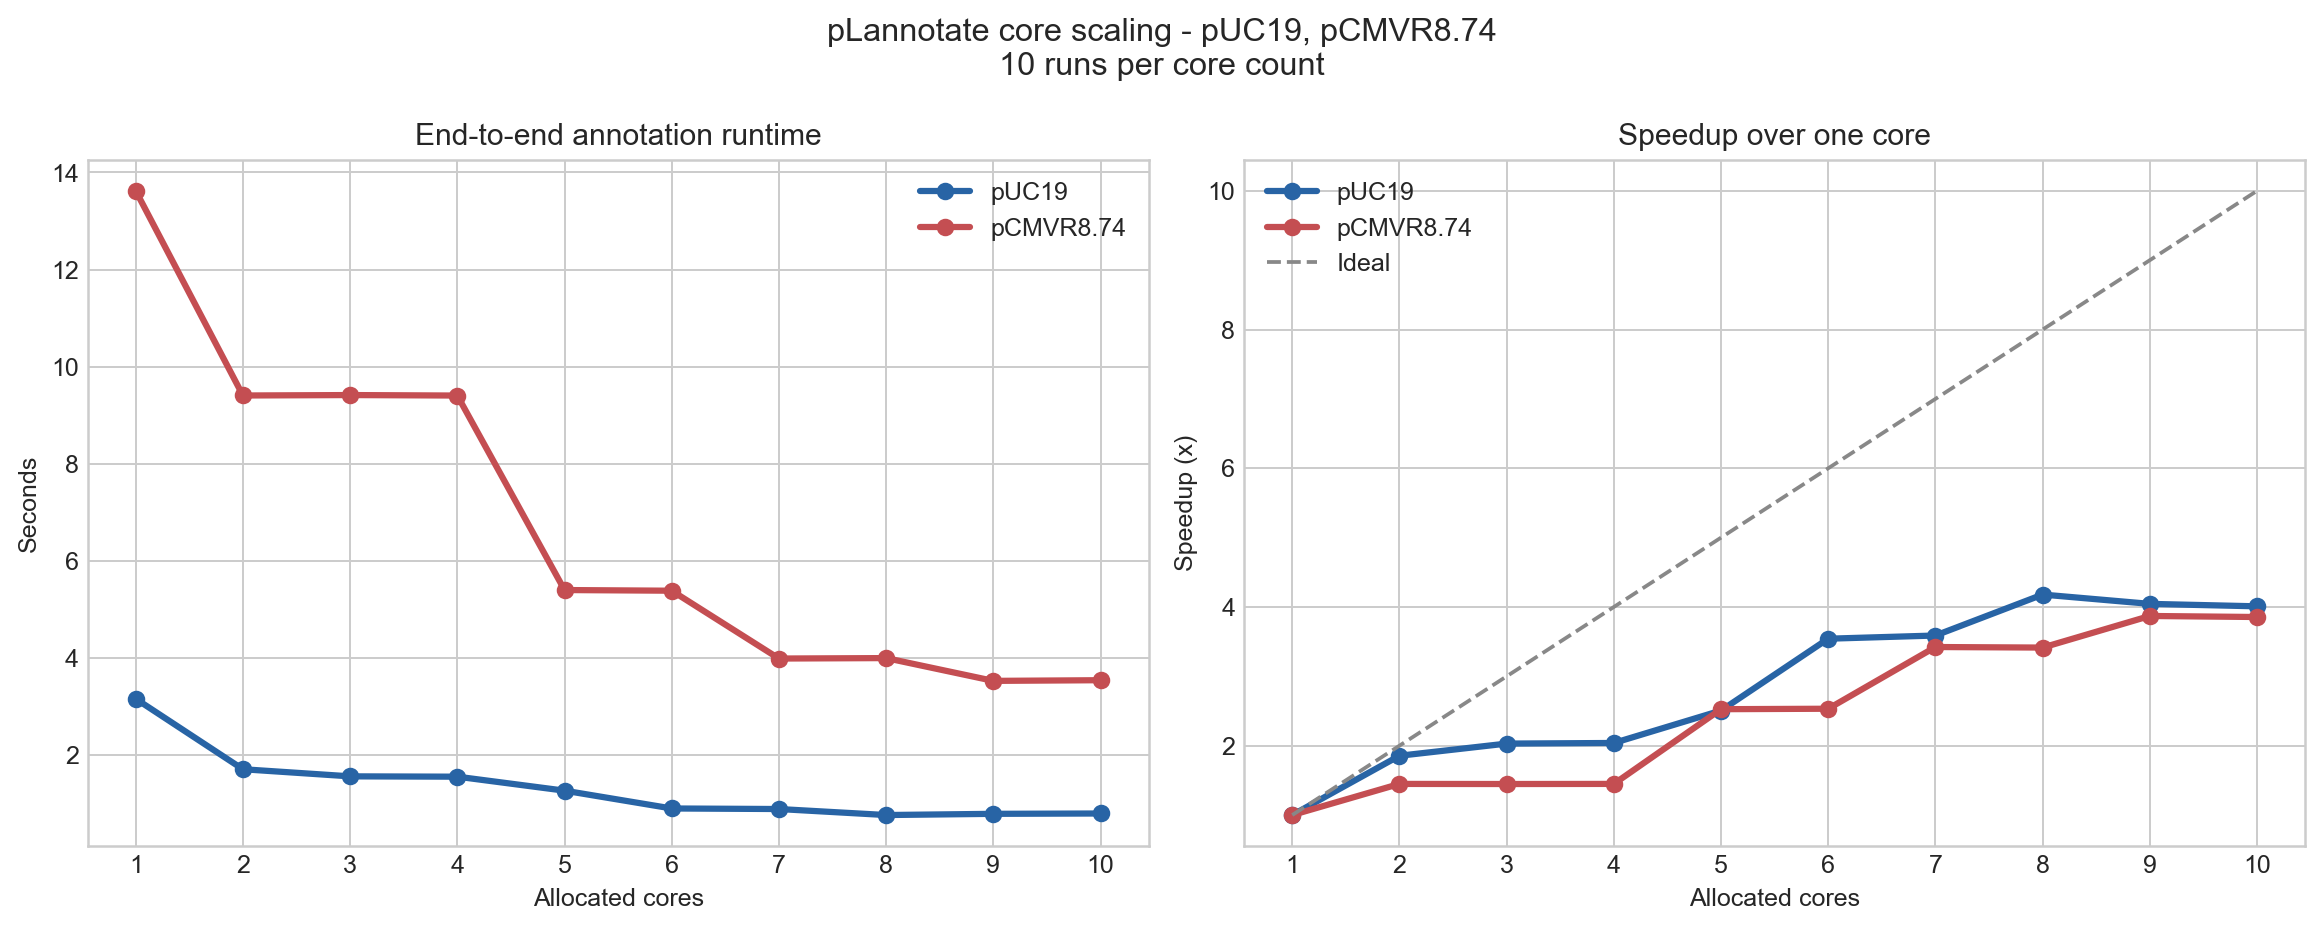
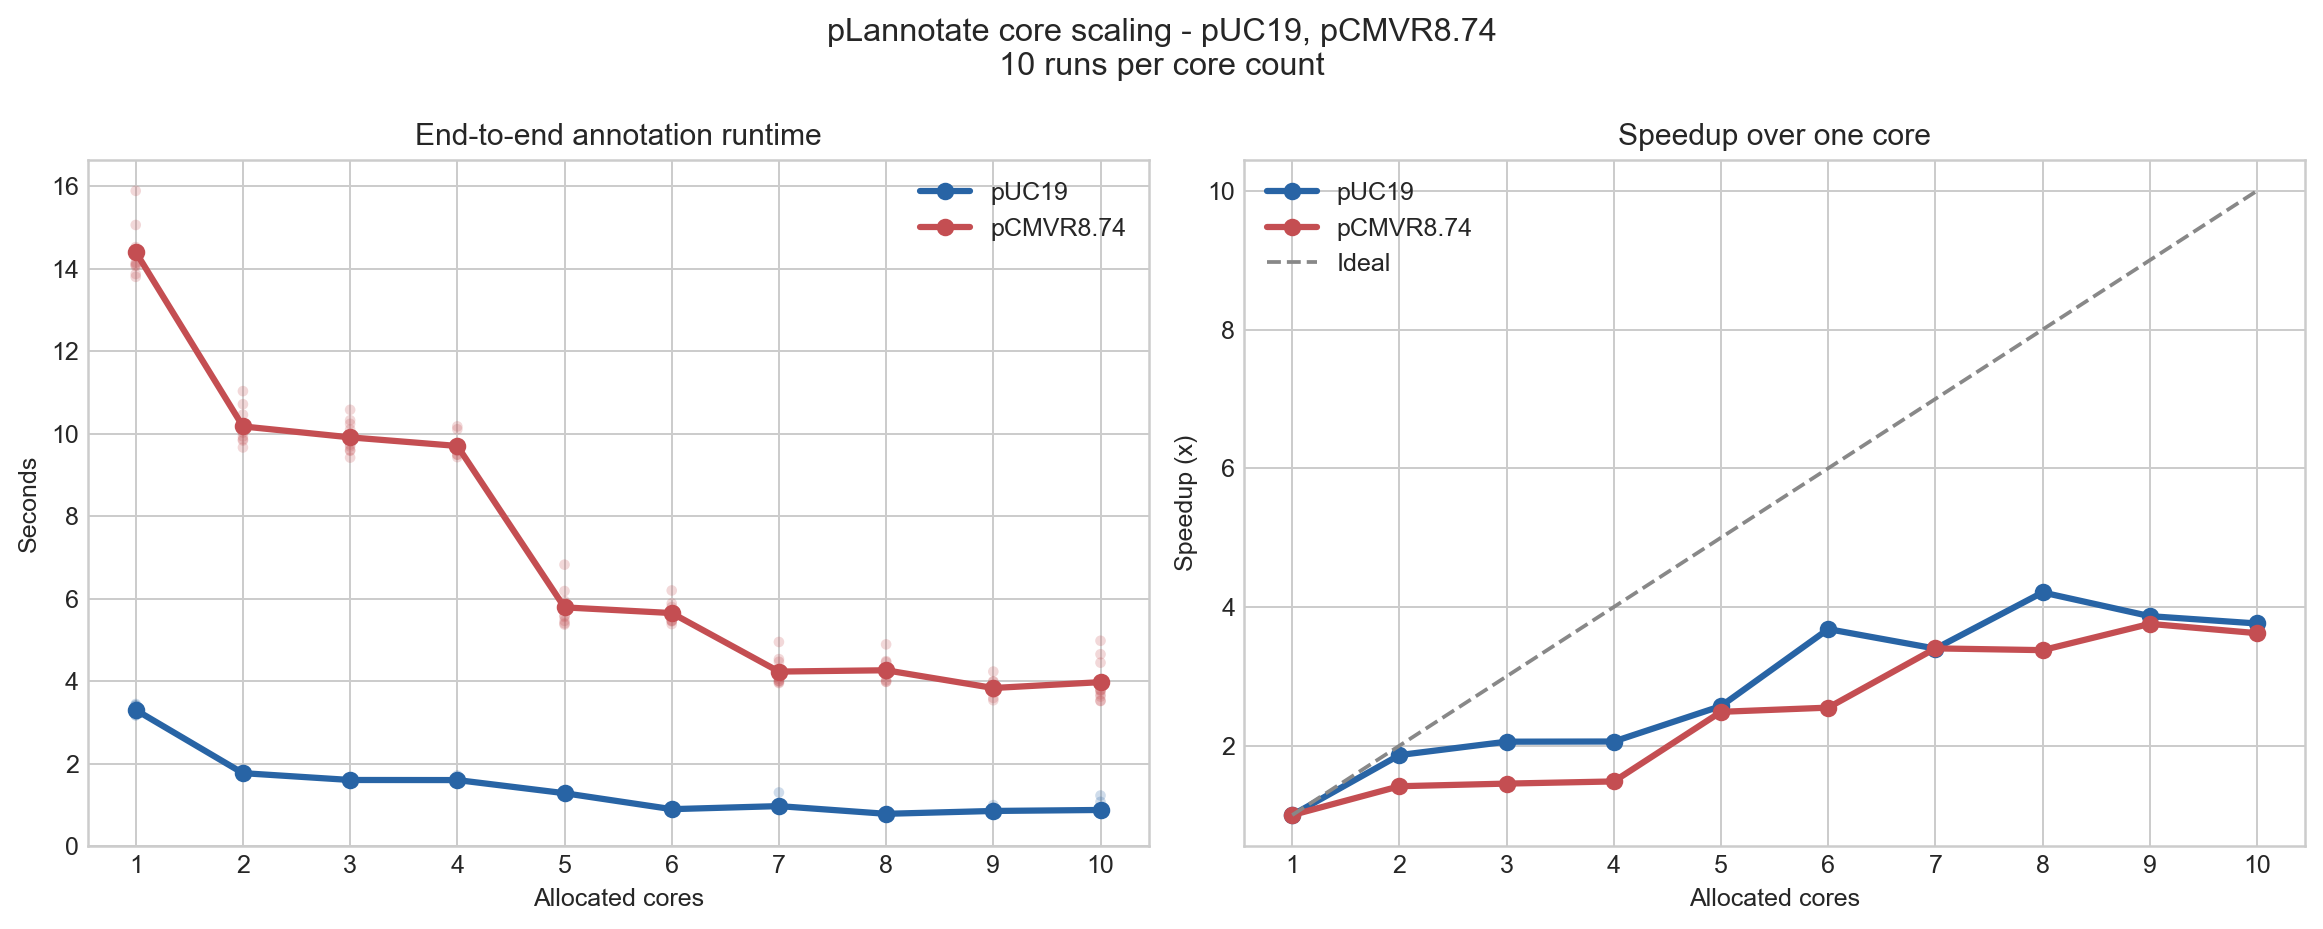
∆ benchmark plot: show per-run spread
Restore the faint individual-run scatter behind each mean line in the
combined comparison plot so the 10 runs per core count stay visible.

diff --git a/tools/benchmark_annotation_cores.py b/tools/benchmark_annotation_cores.py
@@ -172,9 +172,14 @@ def write_csv(path: Path, rows: list[dict]) -> None:
 def render_comparison_figure(
     path: Path,
     summaries: dict[str, list[dict]],
+    observations: dict[str, list[dict]],
     repeats: int,
 ) -> None:
-    """Render runtime and speedup curves for several plasmids on shared axes."""
+    """Render runtime and speedup curves for several plasmids on shared axes.
+
+    Individual runs are drawn as faint points behind each mean line so the
+    spread across the repeats stays visible.
+    """
     import matplotlib
 
     matplotlib.use("Agg")
@@ -187,6 +192,16 @@ def render_comparison_figure(
     for index, (name, summary) in enumerate(summaries.items()):
         color = palette[index % len(palette)]
         cores = [row["cores"] for row in summary]
+        runs = observations.get(name, [])
+        runtime_axis.scatter(
+            [row["cores"] for row in runs],
+            [row["seconds"] for row in runs],
+            color=color,
+            alpha=0.22,
+            s=18,
+            edgecolors="none",
+            zorder=1,
+        )
         runtime_axis.plot(
             cores,
             [row["average_seconds"] for row in summary],
@@ -195,6 +210,7 @@ def render_comparison_figure(
             linewidth=2.5,
             markersize=6,
             label=name,
+            zorder=3,
         )
         speedup_axis.plot(
             cores,
@@ -304,6 +320,7 @@ def main() -> None:
         parser.error("--retries must be zero or positive")
 
     summaries: dict[str, list[dict]] = {}
+    all_observations: dict[str, list[dict]] = {}
     for fasta in args.fasta:
         print(f"Benchmarking {fasta.name}", flush=True)
         observations = benchmark(
@@ -316,12 +333,18 @@ def main() -> None:
         )
         summary = summarize(observations, args.max_cores)
         summaries[fasta.stem] = summary
+        all_observations[fasta.stem] = observations
         stem = f"{fasta.stem}-core-scaling"
         write_csv(args.output_dir / f"{stem}-raw.csv", observations)
         write_csv(args.output_dir / f"{stem}.csv", summary)
 
     comparison_path = args.output_dir / "core-scaling-comparison.png"
-    render_comparison_figure(comparison_path, summaries, args.repeats)
+    render_comparison_figure(
+        comparison_path,
+        summaries,
+        all_observations,
+        args.repeats,
+    )
     if not args.skip_docs_copy:
         copy_docs_image(comparison_path, args.docs_image_dir)
 